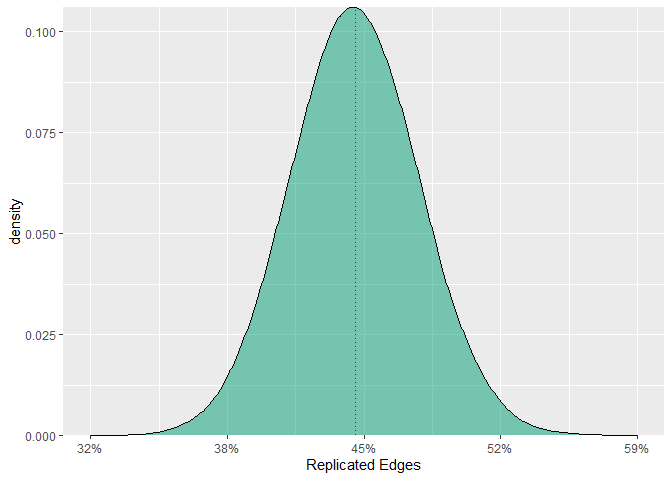
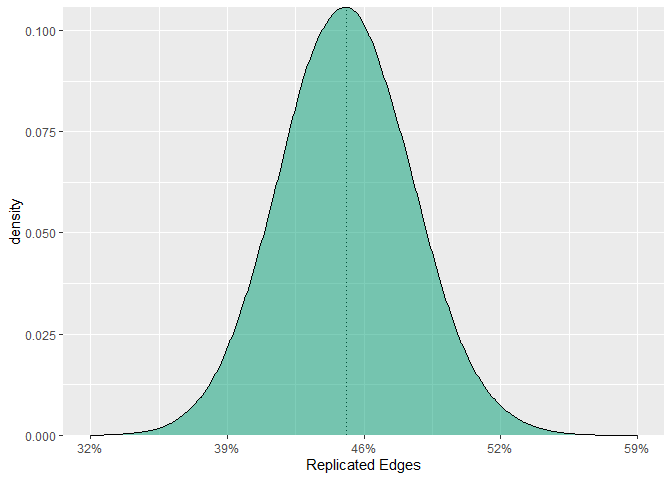
add hex

diff --git a/README.md b/README.md
@@ -1,7 +1,9 @@
 
 <!-- README.md is generated from README.Rmd. Please edit that file -->
 
-# GGMnonreg
+<img src="man/figures/imgfile.png" width = 200 />
+
+# GGMnonreg: Non-regularized Gaussian Graphical Models
 
 [![CircleCI build
 status](https://circleci.com/gh/donaldRwilliams/GGMnonreg.svg?style=svg)](https://circleci.com/gh/donaldRwilliams/GGMnonreg)
@@ -119,16 +121,16 @@ fit <- ggm_inference(Y, boot = TRUE,
 
 confint(fit)
 #>              2.5%        97.5%
-#>  [1,] -0.29330126 -0.221095444
-#>  [2,] -0.15212430 -0.067563547
-#>  [3,]  0.26123276  0.330169373
-#>  [4,] -0.04205889  0.032208513
-#>  [5,]  0.12368860  0.201685005
-#>  [6,]  0.13015237  0.205145191
-#>  [7,] -0.06223576  0.008476599
-#>  [8,]  0.10393804  0.184975833
-#>  [9,]  0.33827309  0.415629221
-#> [10,]  0.08046885  0.160784272
+#>  [1,] -0.28209839 -0.221835743
+#>  [2,] -0.14518204 -0.070989373
+#>  [3,]  0.25579255  0.328797716
+#>  [4,] -0.03960491  0.026135794
+#>  [5,]  0.12215231  0.204478744
+#>  [6,]  0.13431698  0.216145848
+#>  [7,] -0.07021953  0.009854325
+#>  [8,]  0.11074243  0.184346818
+#>  [9,]  0.34708388  0.407623009
+#> [10,]  0.08859311  0.152140837
 ```
 
 These can then be plotted with, say, **ggplot2** (left to the user).
@@ -157,7 +159,7 @@ fit
 #> 4  0.02
 #> 5  1.00
 #> 6  1.00
-#> 7  0.33
+#> 7  0.28
 #> 8  1.00
 #> 9  1.00
 #> 10 1.00
@@ -287,8 +289,8 @@ cbind.data.frame(
 #> 2       1.000    1.000
 #> 3       1.000    1.000
 #> 4       1.000    1.000
-#> 5       0.907    0.912
-#> 6       0.053    0.052
+#> 5       0.910    0.912
+#> 6       0.059    0.052
 #> 7       0.000    0.000
 #> 8       0.000    0.000
 #> 9       0.000    0.000
@@ -296,7 +298,7 @@ cbind.data.frame(
 
 # average replicability (simulation)
 mean(R / length(index))
-#> [1] 0.4478547
+#> [1] 0.4488205
 
 # average replicability (analytic)
 fit_enr$ave_pwr
